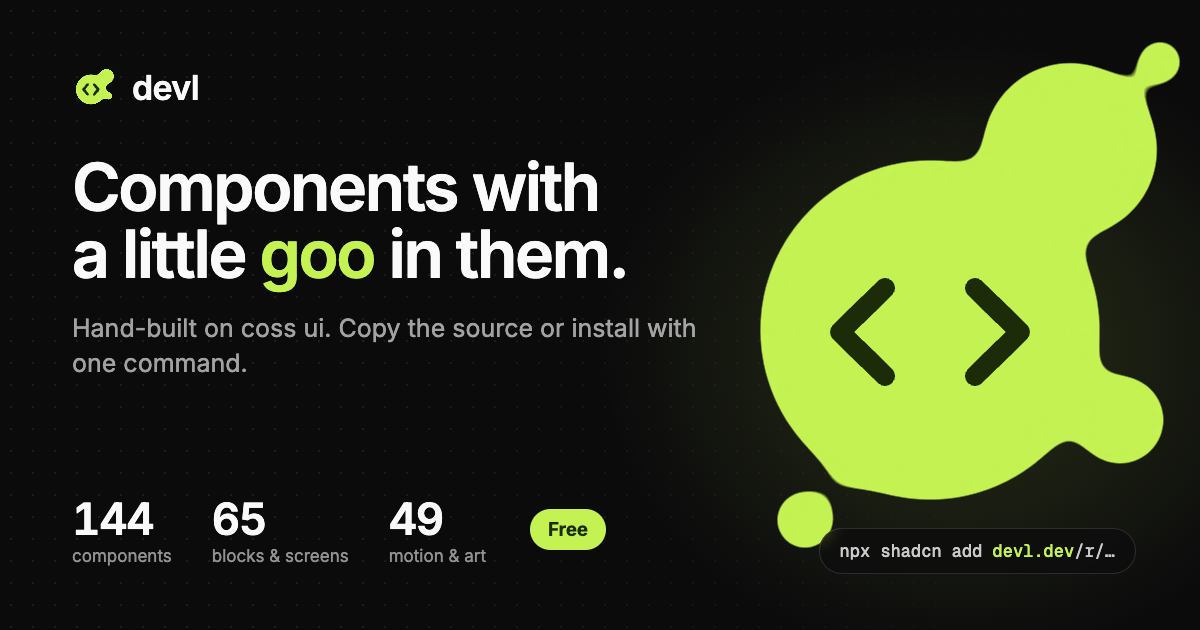
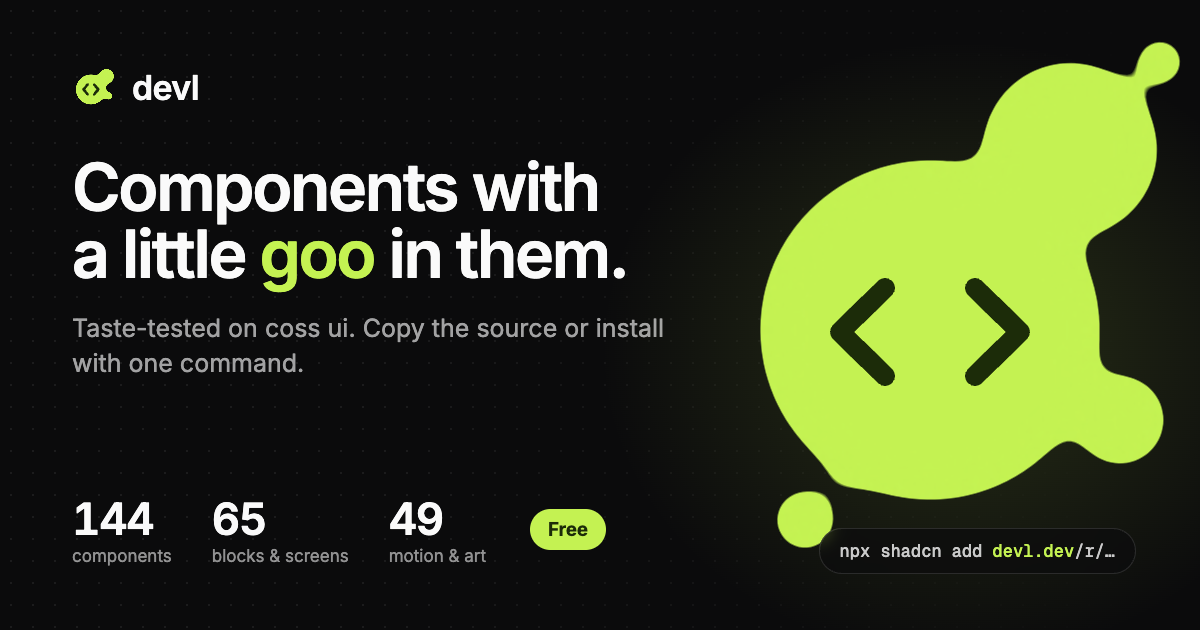
Say taste-tested, not hand-built, and show how many were cut

Changed region(s): [[0.0617, 0.4825, 0.5858, 0.6032]]

diff --git a/src/components/library.tsx b/src/components/library.tsx
@@ -4,7 +4,7 @@ import { CategoryRail } from "@/components/category-rail";
 import { ItemCard, type TileSize } from "@/components/item-card";
 import { planGridAds } from "@/components/sponsor/grid-ads";
 import { Empty, EmptyDescription, EmptyHeader, EmptyTitle } from "@/components/ui/empty";
-import { type ItemKind, type RegistryItem, categoriesOf, items, itemsOfKind, kinds } from "@/lib/registry";
+import { type ItemKind, type RegistryItem, categoriesOf, items, itemsOfKind, kinds, devl } from "@/lib/registry";
 import { cn } from "@/lib/utils";
 
 const intro: Record<ItemKind, { title: string; blurb: string }> = {
@@ -63,7 +63,10 @@ export function Library({ kind }: { kind: ItemKind }) {
           </div>
           <div className="max-md:hidden">
             <dt className="text-muted-foreground">across devl</dt>
-            <dd className="font-sans font-semibold text-2xl text-foreground tabular-nums">{items.length}</dd>
+            <dd className="font-sans font-semibold text-2xl text-foreground tabular-nums">
+              {items.length}
+              <span className="ms-1.5 font-mono font-normal text-muted-foreground text-xs">· {devl.cut} cut</span>
+            </dd>
           </div>
         </dl>
       </section>

diff --git a/src/app/(site)/layout.tsx b/src/app/(site)/layout.tsx
@@ -6,13 +6,13 @@ import "../globals.css";
 
 export const metadata: Metadata = {
   title: { default: "devl — components, shared", template: "%s · devl" },
-  description: "Hand-built components on coss ui. Copy the source or install with the shadcn CLI.",
+  description: "Taste-tested components on coss ui. Copy the source or install with the shadcn CLI.",
   metadataBase: new URL("https://devl.dev"),
   openGraph: {
     type: "website",
     siteName: "devl",
     title: "devl — components with a little goo in them",
-    description: "Free, hand-built components, blocks, screens, motion and illustrations on coss ui. Copy the source or install with the shadcn CLI.",
+    description: "Free, taste-tested components, blocks, screens, motion and illustrations on coss ui. Copy the source or install with the shadcn CLI.",
     images: [{ url: "/og.png", width: 1200, height: 630, alt: "devl — components with a little goo in them" }],
   },
   twitter: { card: "summary_large_image", images: ["/og.png"] },

diff --git a/src/lib/registry.ts b/src/lib/registry.ts
@@ -61,7 +61,7 @@ export const qnot = {
   packages: ["@qnot/core", "@qnot/react"],
 };
 
-export const devl = { repo: "https://github.com/sean-brydon/devl.dev" };
+export const devl = { repo: "https://github.com/sean-brydon/devl.dev", cut: 31 };
 
 export const cossUi = { name: "coss ui", site: "https://coss.com/ui" };
 
